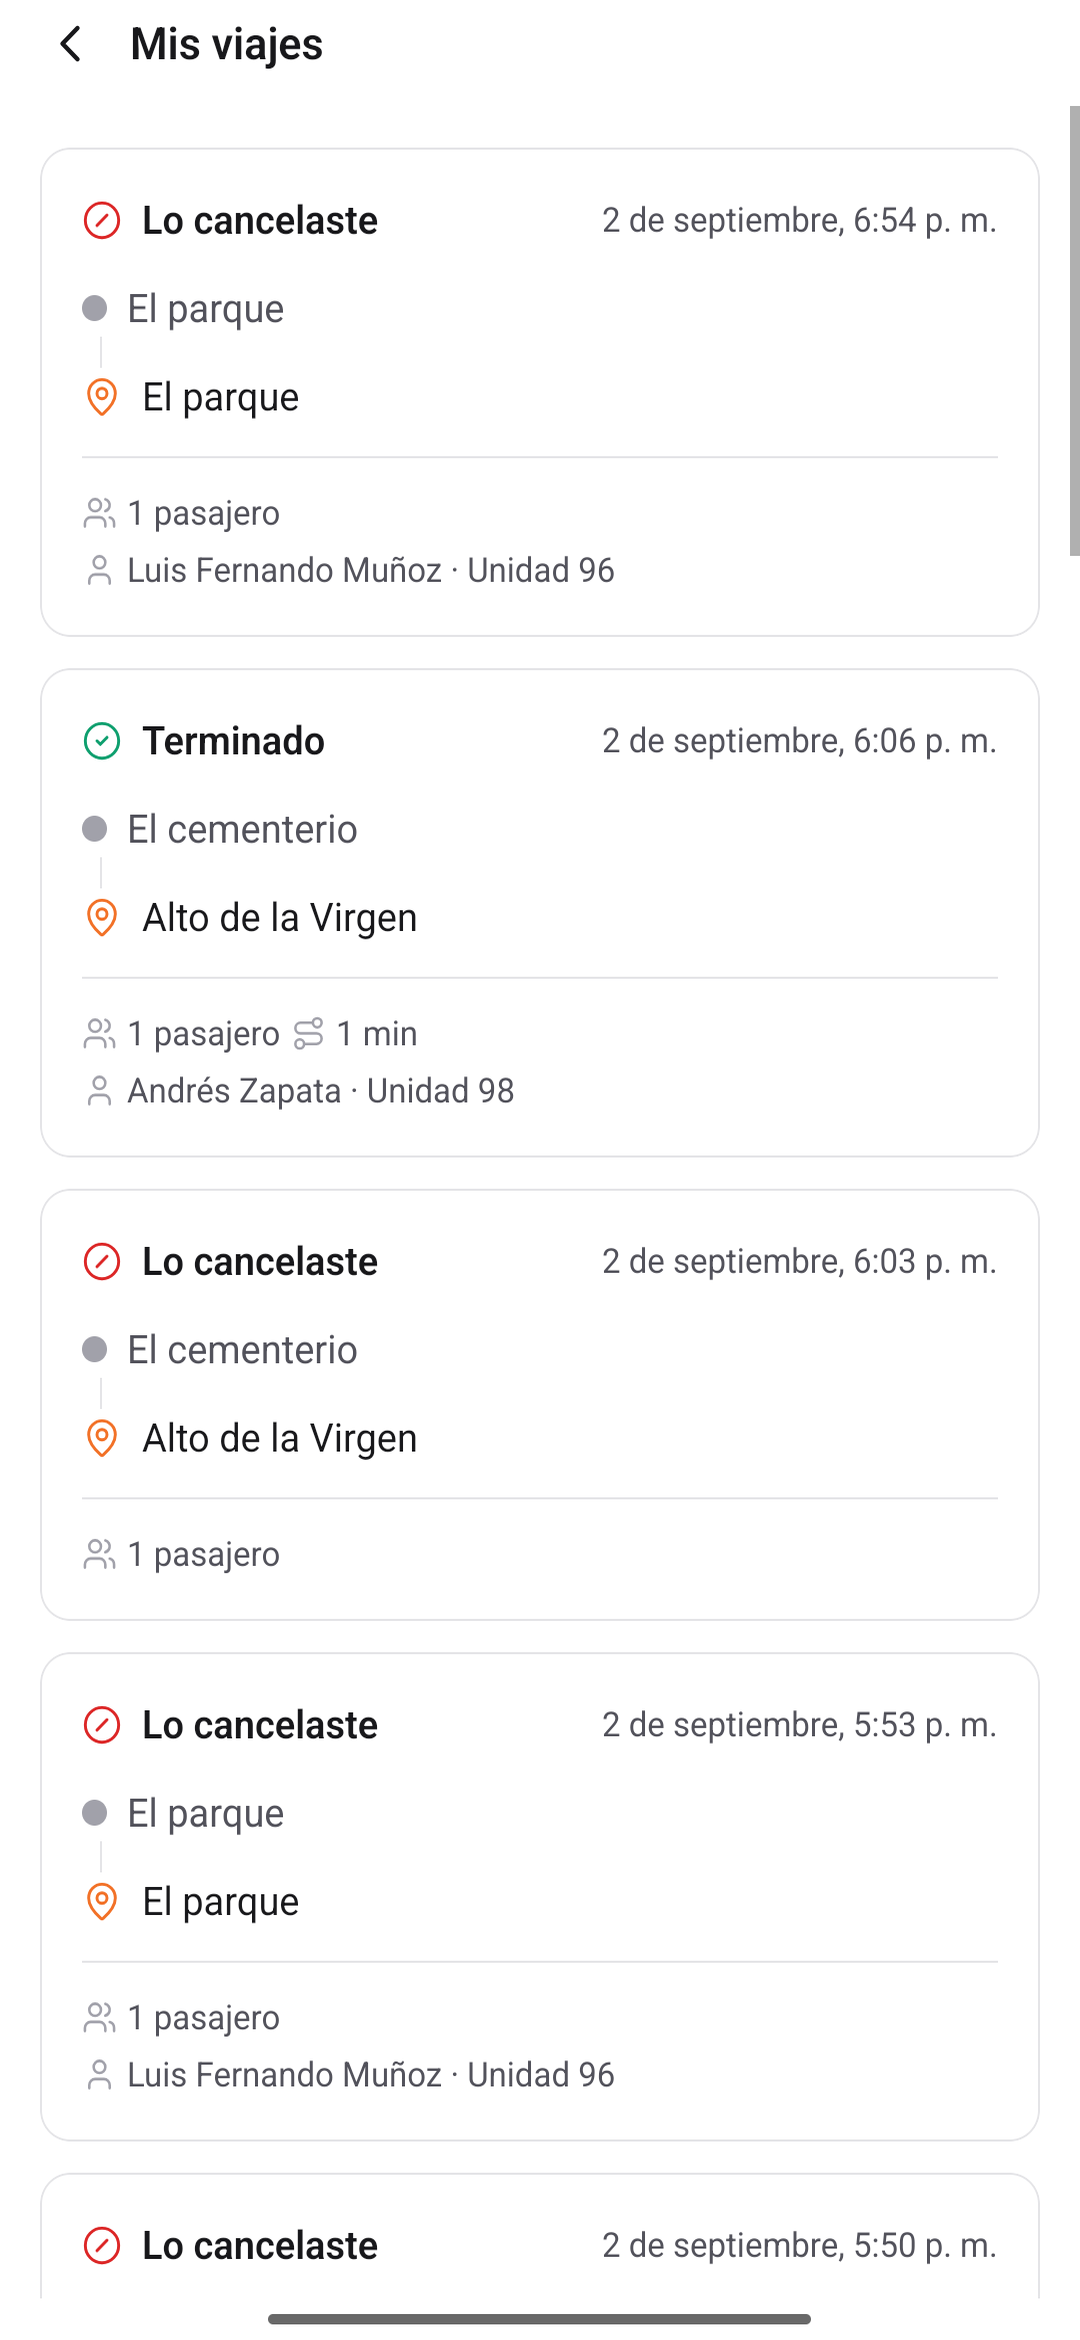
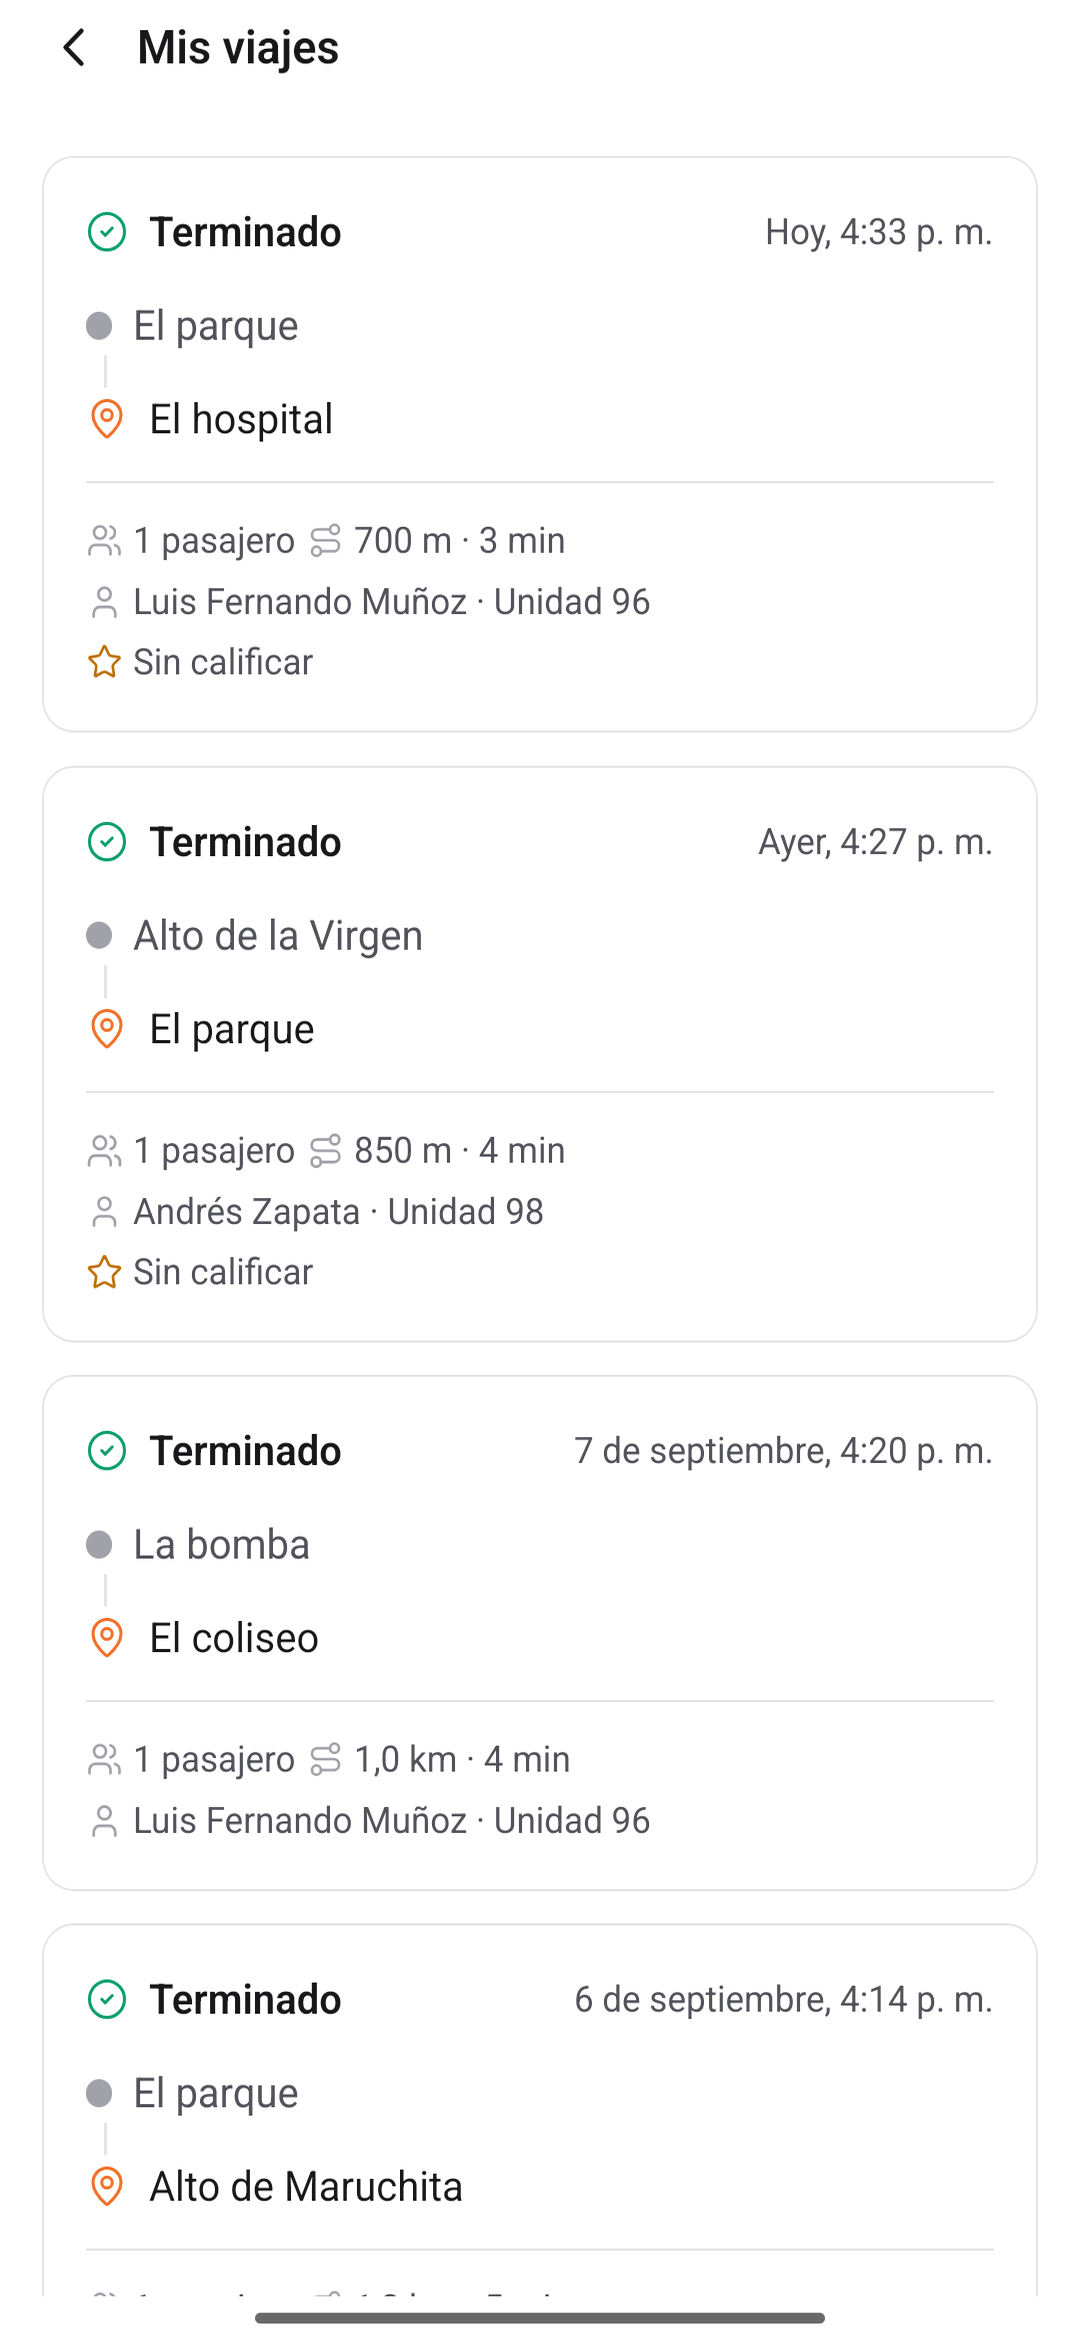
Historial de Play Store con datos limpios + set de capturas uniforme
- seed_qa_history.sql (NUEVO): 6 viajes terminados para la pasajera de prueba,
  pares de lugares reales de Amalfi, dos conductores con nombres realistas,
  4 con calificacion. remove_qa_history.sql lo deshace.
- 4-historial rehecha: solo "Terminado", nombres y rutas limpias.
- 2-inicio, 6, 7 rehechas para que todo el set use la misma pasajera
  ("Camila Restrepo") y conductor ("Luis Fernando Muñoz").

diff --git a/docs/operaciones/ficha-play-store.md b/docs/operaciones/ficha-play-store.md
@@ -68,7 +68,7 @@ AmalfiGoApp es para Amalfi, Antioquia. Hoy no funciona en otros municipios.
 | -------------------------------------- | -------------------------------------------------------------- | --------------------------------------------------------------------------------------------------------------------------------------------------------------------------------------------------- |
 | Icono                                  | 512 × 512 PNG, 32 bits                                         | **Existe:** `assets/images/icon.png`                                                                                                                                                                |
 | Gráfico de funciones (feature graphic) | 1024 × 500 PNG/JPG, sin texto crítico en los bordes            | **HECHO:** `assets/store/feature-graphic.png` (lo genera `assets/brand/feature-graphic.mjs`)                                                                                                        |
-| Capturas de teléfono                   | 2 a 8, PNG/JPG, lado mín. 320 px, máx. 3840, ratio 16:9 o 9:16 | **7 hechas y uniformes** en `assets/store/capturas/` (1080×2340, sin barra de estado). 1-4: bienvenida, inicio, perfil, historial. 5-7: tarifa, conductor en camino, solicitud del conductor (viaje simulado del 2026-09-09). Nota: `2-inicio` saluda a "Ana Gomez" y `3-perfil` es de "Camila Restrepo" — inconsistencia de la cuenta de prueba, no bloquea |
+| Capturas de teléfono                   | 2 a 8, PNG/JPG, lado mín. 320 px, máx. 3840, ratio 16:9 o 9:16 | **7 hechas y uniformes** en `assets/store/capturas/` (1080×2340, sin barra de estado, datos limpios en Amalfi). 1-4: bienvenida, inicio, perfil, historial. 5-7: tarifa, conductor en camino, solicitud del conductor. Todo el set usa la misma pasajera ("Camila Restrepo") y el mismo conductor ("Luis Fernando Muñoz"). El historial se siembra con `supabase/dev-tools/seed_qa_history.sql` (se deshace con `remove_qa_history.sql`) |
 | Capturas de tablet 7" / 10"            | Opcionales                                                     | —                                                                                                                                                                                                   |
 
 **Las 3 capturas que faltaban — HECHAS (2026-09-09).** Viaje simulado
